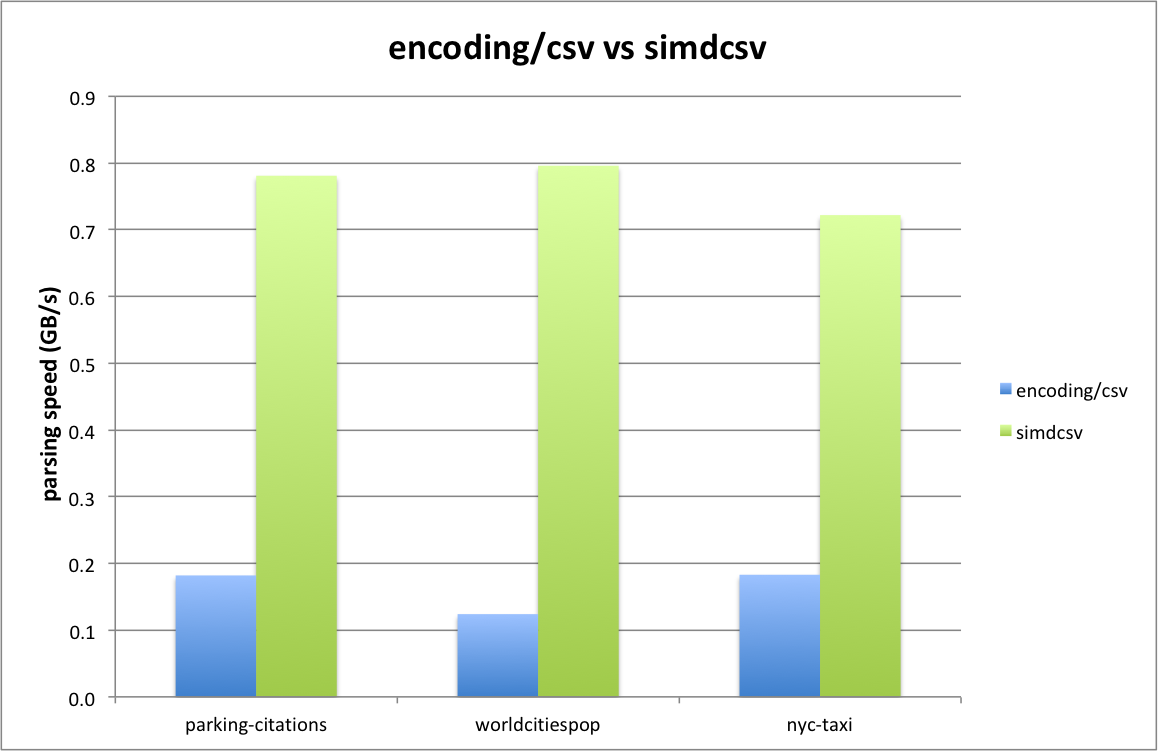
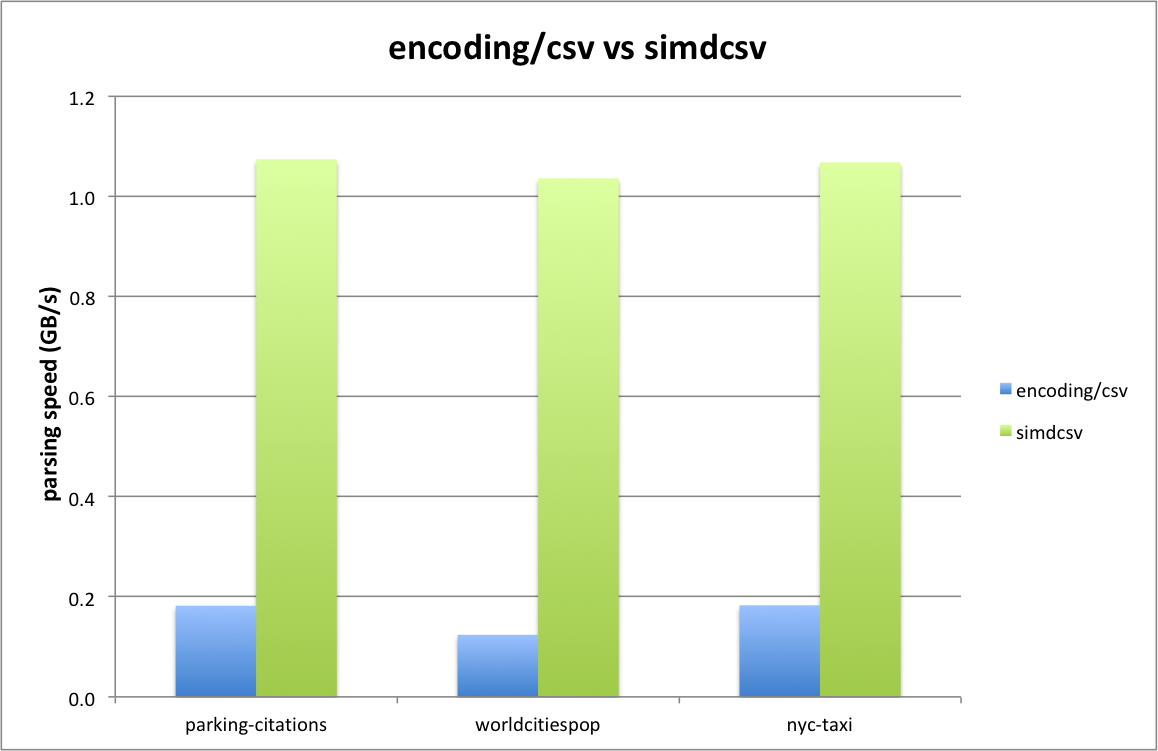
Updated chart and move performance section up in README

diff --git a/README.md b/README.md
@@ -6,7 +6,7 @@ A 2 stage design approach for speeding up CSV parsing (somewhat analoguous to [s
     
 ## Design goals
 
-- 1 GB/sec parsing performance for a single core
+- 1 GB/sec parsing performance
 - support arbitrarily large data sets (and beyond 4 GB)
 - drop-in replacement for `encoding/csv`
 - zero copy behaviour/memory efficient
@@ -18,6 +18,24 @@ The design of `simdcsv` consists of two stages:
 - stage 2: parse CSV
 
 Fundamentally `simdcsv` works on chunks of 64 bytes at a time which are loaded into a set of 2 YMM registers. Using AVX2 instructions the presence of characters such as separators, newline delimiters and quotes are detected and merged into a single 64-bit wide register.
+
+##  Performance compared to encoding/csv
+
+Below is a comparison between `encoding/csv` and `simdcsv` for a couple of popular CSV data sets.
+
+![encoding-csv_vs_simdcsv-comparison](charts/encoding-csv_vs_simdcsv.png)
+
+```
+benchmark                                     old MB/s     new MB/s     speedup
+BenchmarkSimdCsv/parking-citations-100K-8     182.36       1074.20      5.89x
+BenchmarkSimdCsv/worldcitiespop-100K-8        124.75       1036.12      8.31x
+BenchmarkSimdCsv/nyc-taxi-data-100K-8         183.91       1067.98      5.81x
+
+benchmark                                     old bytes     new bytes     delta
+BenchmarkSimdCsv/parking-citations-100K-8     58601189      1650567       -97.18%
+BenchmarkSimdCsv/worldcitiespop-100K-8        30822166      581103        -98.11%
+BenchmarkSimdCsv/nyc-taxi-data-100K-8         133772128     5554548       -95.85%
+```
 
 ## Stage 1: Preprocessing stage
 
@@ -210,24 +228,6 @@ func TestStage1PreprocessMasks(t *testing.T) {
 		testStage1PreprocessMasksFunc(t, stage1_preprocess_test)
 	})
 }
-```
-
-##  Performance compared to encoding/csv
-
-Below is a comparison between `encoding/csv` and `simdcsv` for a couple of popular CSV data sets.
-
-![encoding-csv_vs_simdcsv-comparison](charts/encoding-csv_vs_simdcsv.png)
-
-```
-benchmark                                     old MB/s     new MB/s     speedup
-BenchmarkSimdCsv/parking-citations-100K-8     182.36       1074.20      5.89x
-BenchmarkSimdCsv/worldcitiespop-100K-8        124.75       1036.12      8.31x
-BenchmarkSimdCsv/nyc-taxi-data-100K-8         183.91       1067.98      5.81x
-
-benchmark                                     old bytes     new bytes     delta
-BenchmarkSimdCsv/parking-citations-100K-8     58601189      1650567       -97.18%
-BenchmarkSimdCsv/worldcitiespop-100K-8        30822166      581103        -98.11%
-BenchmarkSimdCsv/nyc-taxi-data-100K-8         133772128     5554548       -95.85%
 ```
 
 ## Limitations
